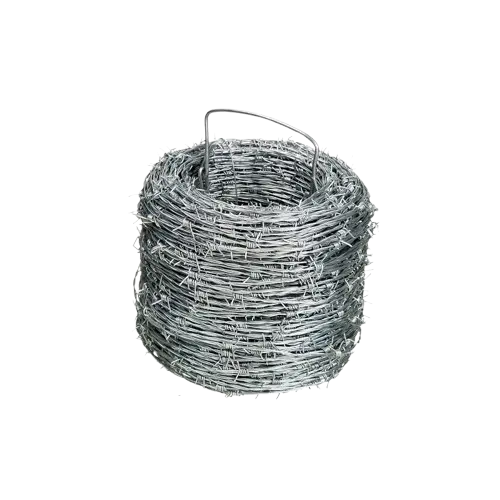
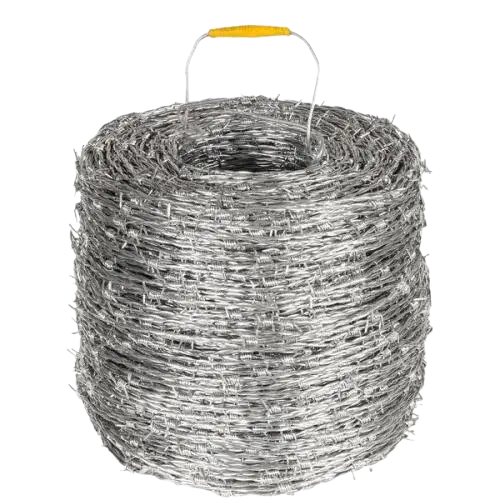
- add mais elementos de texto na faixa para ficar com um efeito de scroll infinto   - Subsititui o arquivo arame-farpado.webp' por uma versão que ocupa melhor o espaço do card

diff --git a/index.html b/index.html
@@ -109,6 +109,14 @@
             OBRA! 🔧 GRANDES OFERTAS TODOS OS DIAS! 💥</span>
           <span class="fw-bold text-uppercase">🛠 CENTER FERRAMENTAS - QUALIDADE, FORÇA E CONFIANÇA PRA SUA
             OBRA! 🔧 GRANDES OFERTAS TODOS OS DIAS! 💥</span>
+            <span class="fw-bold text-uppercase">🛠 CENTER FERRAMENTAS - QUALIDADE, FORÇA E CONFIANÇA PRA SUA
+            OBRA! 🔧 GRANDES OFERTAS TODOS OS DIAS! 💥</span>
+            <span class="fw-bold text-uppercase">🛠 CENTER FERRAMENTAS - QUALIDADE, FORÇA E CONFIANÇA PRA SUA
+            OBRA! 🔧 GRANDES OFERTAS TODOS OS DIAS! 💥</span>
+            <span class="fw-bold text-uppercase">🛠 CENTER FERRAMENTAS - QUALIDADE, FORÇA E CONFIANÇA PRA SUA
+            OBRA! 🔧 GRANDES OFERTAS TODOS OS DIAS! 💥</span>
+            <span class="fw-bold text-uppercase">🛠 CENTER FERRAMENTAS - QUALIDADE, FORÇA E CONFIANÇA PRA SUA
+            OBRA! 🔧 GRANDES OFERTAS TODOS OS DIAS! 💥</span>
         </div>
       </div>
     </div>
